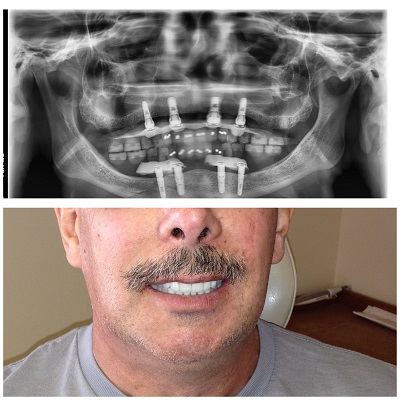
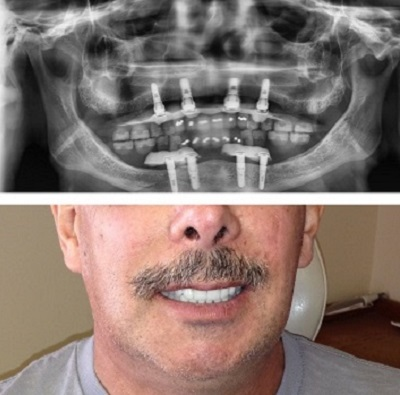
feat: did some img customizations photo page.

diff --git a/src/js/core/before-after/before-after.js b/src/js/core/before-after/before-after.js
@@ -5,27 +5,27 @@ var contentPhotos = '<main class="container animated fadeIn" id="content-photos"
     '</div>' +
     '</div>' +
     '<div class="row">' +
-    '<div class="col-sm-6 animated flipInX">' +
-    '<img class="bf-pics img-responsive img-thumbnail center-block" src="images/bf-1.jpg" alt="Before After pic">' +
+    '<div class="col-sm-6 bf-photos animated flipInX">' +
+    '<img class="bf-pics img-responsive img-thumbnail center-block" src="images/before-1.png" alt="Before After pic">' +
     '</div>' +
-    '<div class="col-sm-6 animated flipInX">' +
-    '<img class="bf-pics img-responsive img-thumbnail center-block" src="images/bf-2.jpg" alt="Before After pic">' +
-    '</div>' +
-    '</div>' +
-    '<div class="row">' +
-    '<div class="col-sm-6 animated flipInX">' +
-    '<img class="bf-pics img-responsive img-thumbnail center-block" src="images/bf-3.jpg" alt="Before After pic">' +
-    '</div>' +
-    '<div class="col-sm-6 animated flipInX">' +
-    '<img class="bf-pics img-responsive img-thumbnail center-block" src="images/bf-5.jpg" alt="Before After pic">' +
+    '<div class="col-sm-6 bf-photos animated flipInX">' +
+    '<img class="bf-pics img-responsive img-thumbnail center-block" src="images/after-1.png" alt="Before After pic">' +
     '</div>' +
     '</div>' +
     '<div class="row">' +
-    '<div class="col-sm-6 animated flipInX">' +
-    '<img class="bf-pics img-responsive img-thumbnail center-block" src="images/bf-4.jpg" alt="Before After pic">' +
+    '<div class="col-sm-6 bf-photos animated flipInX">' +
+    '<img class="bf-pics img-responsive img-thumbnail center-block" src="images/before-2.png" alt="Before After pic">' +
     '</div>' +
-    '<div class="col-sm-6 animated flipInX">' +
-    '<img class="bf-pics img-responsive img-thumbnail center-block" src="images/bf-6.jpg" alt="Before After pic">' +
+    '<div class="col-sm-6 bf-photos animated flipInX">' +
+    '<img class="bf-pics img-responsive img-thumbnail center-block" src="images/after-2.png" alt="Before After pic">' +
+    '</div>' +
+    '</div>' +
+    '<div class="row">' +
+    '<div class="col-sm-6 bf-photos animated flipInX">' +
+    '<img class="bf-pics img-responsive img-thumbnail center-block" src="images/before-3.png" alt="Before After pic">' +
+    '</div>' +
+    '<div class="col-sm-6 bf-photos animated flipInX">' +
+    '<img class="bf-pics img-responsive img-thumbnail center-block" src="images/after-3.png" alt="Before After pic">' +
     '</div>' +
     '</div>' +
     '</main>';

diff --git a/src/js/core/services/methods/admin/services-admin-controls-h2-faq-1.js b/src/js/core/services/methods/admin/services-admin-controls-h2-faq-1.js
@@ -13,7 +13,7 @@ app.editServicesH2Faq_1 = function(
     self.editH2Faq_1TextBtn = '<i type="button" class="fa fa-edit edit-btns" id="edit-services-h2-faq-1-btn" onclick="app.editServicesH2Faq_1Text()"></i>';
     self.saveH2Faq_1TextBtn = '<i type="button" class="fa fa-save edit-btns" id="save-services-h2-faq-1-btn" onclick="app.saveServicesH2Faq_1Text()"></i>';
     self.$saveH2Faq_1TextBtn = $('#save-services-h2-faq-1-btn');
-    self.textAreaservicesH2Faq_1 = '<textarea class="form-control" rows="1" number="3" maxlength="1000" ' +
+    self.textAreaservicesH2Faq_1 = '<textarea class="form-control textarea-style" rows="1" number="3" maxlength="1000" ' +
         'id="services-h2-faq-1-input">' +
         self.servicesContentObj.main.content4[0].servicesCollapsibleContainersH2TextFaq1 +
         '</textarea>';

diff --git a/src/js/core/services/methods/admin/services-admin-controls-h2-faq-2.js b/src/js/core/services/methods/admin/services-admin-controls-h2-faq-2.js
@@ -13,7 +13,7 @@ app.editServicesH2Faq_2 = function(
     self.editH2Faq_2TextBtn = '<i type="button" class="fa fa-edit edit-btns" id="edit-services-h2-faq-2-btn" onclick="app.editServicesH2Faq_2Text()"></i>';
     self.saveH2Faq_2TextBtn = '<i type="button" class="fa fa-save edit-btns" id="save-services-h2-faq-2-btn" onclick="app.saveServicesH2Faq_2Text()"></i>';
     self.$saveH2Faq_2TextBtn = $('#save-services-h2-faq-2-btn');
-    self.textAreaservicesH2Faq_2 = '<textarea class="form-control" rows="1" number="3" maxlength="1000" ' +
+    self.textAreaservicesH2Faq_2 = '<textarea class="form-control textarea-style" rows="1" number="3" maxlength="1000" ' +
         'id="services-h2-faq-2-input">' +
         self.servicesContentObj.main.content4[0].servicesCollapsibleContainersH2TextFaq2 +
         '</textarea>';

diff --git a/src/js/core/services/methods/admin/services-admin-controls-h2-faq-3.js b/src/js/core/services/methods/admin/services-admin-controls-h2-faq-3.js
@@ -13,7 +13,7 @@ app.editServicesH2Faq_3 = function(
     self.editH2Faq_3TextBtn = '<i type="button" class="fa fa-edit edit-btns" id="edit-services-h2-faq-3-btn" onclick="app.editServicesH2Faq_3Text()"></i>';
     self.saveH2Faq_3TextBtn = '<i type="button" class="fa fa-save edit-btns" id="save-services-h2-faq-3-btn" onclick="app.saveServicesH2Faq_3Text()"></i>';
     self.$saveH2Faq_3TextBtn = $('#save-services-h2-faq-3-btn');
-    self.textAreaservicesH2Faq_3 = '<textarea class="form-control" rows="1" number="3" maxlength="1000" ' +
+    self.textAreaservicesH2Faq_3 = '<textarea class="form-control textarea-style" rows="1" number="3" maxlength="1000" ' +
         'id="services-h2-faq-3-input">' +
         self.servicesContentObj.main.content4[0].servicesCollapsibleContainersH2TextFaq3 +
         '</textarea>';

diff --git a/src/js/core/services/methods/admin/services-admin-controls-h2-faq-4.js b/src/js/core/services/methods/admin/services-admin-controls-h2-faq-4.js
@@ -13,7 +13,7 @@ app.editServicesH2Faq_4 = function(
     self.editH2Faq_4TextBtn = '<i type="button" class="fa fa-edit edit-btns" id="edit-services-h2-faq-4-btn" onclick="app.editServicesH2Faq_4Text()"></i>';
     self.saveH2Faq_4TextBtn = '<i type="button" class="fa fa-save edit-btns" id="save-services-h2-faq-4-btn" onclick="app.saveServicesH2Faq_4Text()"></i>';
     self.$saveH2Faq_4TextBtn = $('#save-services-h2-faq-4-btn');
-    self.textAreaservicesH2Faq_4 = '<textarea class="form-control" rows="1" number="3" maxlength="1000" ' +
+    self.textAreaservicesH2Faq_4 = '<textarea class="form-control textarea-style" rows="1" number="3" maxlength="1000" ' +
         'id="services-h2-faq-4-input">' +
         self.servicesContentObj.main.content4[0].servicesCollapsibleContainersH2TextFaq4 +
         '</textarea>';

diff --git a/src/js/core/services/methods/admin/services-admin-controls-p-faq-1.js b/src/js/core/services/methods/admin/services-admin-controls-p-faq-1.js
@@ -11,7 +11,7 @@ app.editServicesPFaq_1 = function(
     self.editPFaq_1TextBtn = '<i type="button" class="fa fa-edit edit-btns" id="edit-services-p-faq-1-btn" onclick="app.editServicesPFaq_1Text()"></i>';
     self.savePFaq_1TextBtn = '<i type="button" class="fa fa-save edit-btns" id="save-services-p-faq-1-btn" onclick="app.saveServicesPFaq_1Text()"></i>';
     self.$savePFaq_1TextBtn = $('#save-services-p-faq-1-btn');
-    self.textAreaservicesPFaq_1 = '<textarea class="form-control" rows="1" number="3" maxlength="1000" ' +
+    self.textAreaservicesPFaq_1 = '<textarea class="form-control textarea-style" rows="1" number="3" maxlength="1000" ' +
         'id="services-p-faq-1-input">' +
         self.servicesContentObj.main.content4[0].servicesCollapsibleContainersPTextFaq1 +
         '</textarea>';

diff --git a/src/js/core/services/methods/admin/services-admin-controls-p-faq-2.js b/src/js/core/services/methods/admin/services-admin-controls-p-faq-2.js
@@ -11,7 +11,7 @@ app.editServicesPFaq_2 = function(
     self.editPFaq_2TextBtn = '<i type="button" class="fa fa-edit edit-btns" id="edit-services-p-faq-2-btn" onclick="app.editServicesPFaq_2Text()"></i>';
     self.savePFaq_2TextBtn = '<i type="button" class="fa fa-save edit-btns" id="save-services-p-faq-2-btn" onclick="app.saveServicesPFaq_2Text()"></i>';
     self.$savePFaq_2TextBtn = $('#save-services-p-faq-2-btn');
-    self.textAreaservicesPFaq_2 = '<textarea class="form-control" rows="1" number="3" maxlength="1000" ' +
+    self.textAreaservicesPFaq_2 = '<textarea class="form-control textarea-style" rows="1" number="3" maxlength="1000" ' +
         'id="services-p-faq-2-input">' +
         self.servicesContentObj.main.content4[0].servicesCollapsibleContainersPTextFaq2 +
         '</textarea>';

diff --git a/src/js/core/services/methods/admin/services-admin-controls-p-faq-3.js b/src/js/core/services/methods/admin/services-admin-controls-p-faq-3.js
@@ -11,7 +11,7 @@ app.editServicesPFaq_3 = function(
     self.editPFaq_3TextBtn = '<i type="button" class="fa fa-edit edit-btns" id="edit-services-p-faq-3-btn" onclick="app.editServicesPFaq_3Text()"></i>';
     self.savePFaq_3TextBtn = '<i type="button" class="fa fa-save edit-btns" id="save-services-p-faq-3-btn" onclick="app.saveServicesPFaq_3Text()"></i>';
     self.$savePFaq_3TextBtn = $('#save-services-p-faq-3-btn');
-    self.textAreaservicesPFaq_3 = '<textarea class="form-control" rows="1" number="3" maxlength="1000" ' +
+    self.textAreaservicesPFaq_3 = '<textarea class="form-control textarea-style" rows="1" number="3" maxlength="1000" ' +
         'id="services-p-faq-3-input">' +
         self.servicesContentObj.main.content4[0].servicesCollapsibleContainersPTextFaq3 +
         '</textarea>';

diff --git a/src/js/core/services/methods/admin/services-admin-controls-p-faq-4.js b/src/js/core/services/methods/admin/services-admin-controls-p-faq-4.js
@@ -11,7 +11,7 @@ app.editServicesPFaq_4 = function(
     self.editPFaq_4TextBtn = '<i type="button" class="fa fa-edit edit-btns" id="edit-services-p-faq-4-btn" onclick="app.editServicesPFaq_4Text()"></i>';
     self.savePFaq_4TextBtn = '<i type="button" class="fa fa-save edit-btns" id="save-services-p-faq-4-btn" onclick="app.saveServicesPFaq_4Text()"></i>';
     self.$savePFaq_4TextBtn = $('#save-services-p-faq-4-btn');
-    self.textAreaservicesPFaq_4 = '<textarea class="form-control" rows="1" number="3" maxlength="1000" ' +
+    self.textAreaservicesPFaq_4 = '<textarea class="form-control textarea-style" rows="1" number="3" maxlength="1000" ' +
         'id="services-p-faq-4-input">' +
         self.servicesContentObj.main.content4[0].servicesCollapsibleContainersPTextFaq4 +
         '</textarea>';

diff --git a/src/js/core/services/methods/admin/services-admin-controls-faq-h3-1.js b/src/js/core/services/methods/admin/services-admin-controls-faq-h3-1.js
@@ -13,7 +13,7 @@ app.editServicesFaqH1 = function(
     self.editFaqH1TextBtn = '<i type="button" class="fa fa-edit edit-btns" id="edit-services-h3-8-btn" onclick="app.editServicesFaqH1Text()"></i>';
     self.saveFaqH1TextBtn = '<i type="button" class="fa fa-save edit-btns" id="save-services-h3-8-btn" onclick="app.saveServicesFaqH1Text()"></i>';
     self.$saveFaqH1TextBtn = $('#save-services-h3-8-btn');
-    self.textAreaservicesFaqH1 = '<textarea class="form-control" rows="1" number="3" maxlength="1000" ' +
+    self.textAreaservicesFaqH1 = '<textarea class="form-control textarea-style" rows="1" number="3" maxlength="1000" ' +
         'id="services-h3-8-input">' +
         self.servicesContentObj.main.content4[0].servicesCollapsibleContainersHeaderH1Text +
         '</textarea>';

diff --git a/src/js/core/services/methods/admin/services-admin-controls-h3-2.js b/src/js/core/services/methods/admin/services-admin-controls-h3-2.js
@@ -13,7 +13,7 @@ app.editServicesH3_2 = function(
     self.editH3_2TextBtn = '<i type="button" class="fa fa-edit edit-btns" id="edit-services-h3-2-btn" onclick="app.editServicesH3_2Text()"></i>';
     self.saveH3_2TextBtn = '<i type="button" class="fa fa-save edit-btns" id="save-services-h3-2-btn" onclick="app.saveServicesH3_2Text()"></i>';
     self.$saveH3_2TextBtn = $('#save-services-h3-2-btn');
-    self.textAreaservicesH3_2 = '<textarea class="form-control" rows="1" number="3" maxlength="1000" ' +
+    self.textAreaservicesH3_2 = '<textarea class="form-control textarea-style" rows="1" number="3" maxlength="1000" ' +
         'id="services-h3-2-input">' +
         self.servicesContentObj.main.content3[0].servicesContent3row2Col2HeaderH3TagText2 +
         '</textarea>';

diff --git a/src/js/core/services/methods/admin/services-admin-controls-h3-3.js b/src/js/core/services/methods/admin/services-admin-controls-h3-3.js
@@ -13,7 +13,7 @@ app.editServicesH3_3 = function(
     self.editH3_3TextBtn = '<i type="button" class="fa fa-edit edit-btns" id="edit-services-h3-3-btn" onclick="app.editServicesH3_3Text()"></i>';
     self.saveH3_3TextBtn = '<i type="button" class="fa fa-save edit-btns" id="save-services-h3-3-btn" onclick="app.saveServicesH3_3Text()"></i>';
     self.$saveH3_3TextBtn = $('#save-services-h3-3-btn');
-    self.textAreaservicesH3_3 = '<textarea class="form-control" rows="1" number="3" maxlength="1000" ' +
+    self.textAreaservicesH3_3 = '<textarea class="form-control textarea-style" rows="1" number="3" maxlength="1000" ' +
         'id="services-h3-3-input">' +
         self.servicesContentObj.main.content3[0].servicesContent3row2Col2HeaderH3TagText3 +
         '</textarea>';
